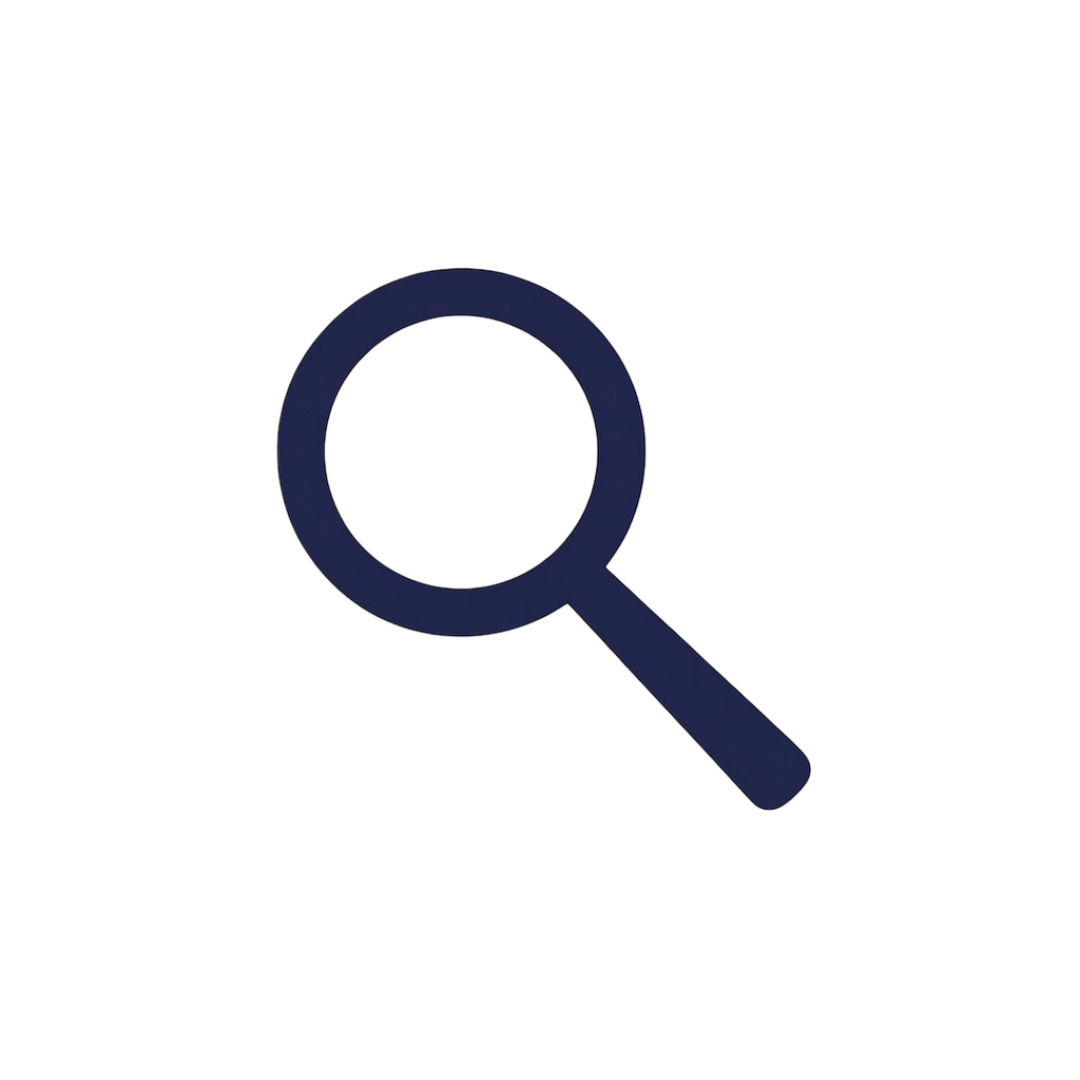
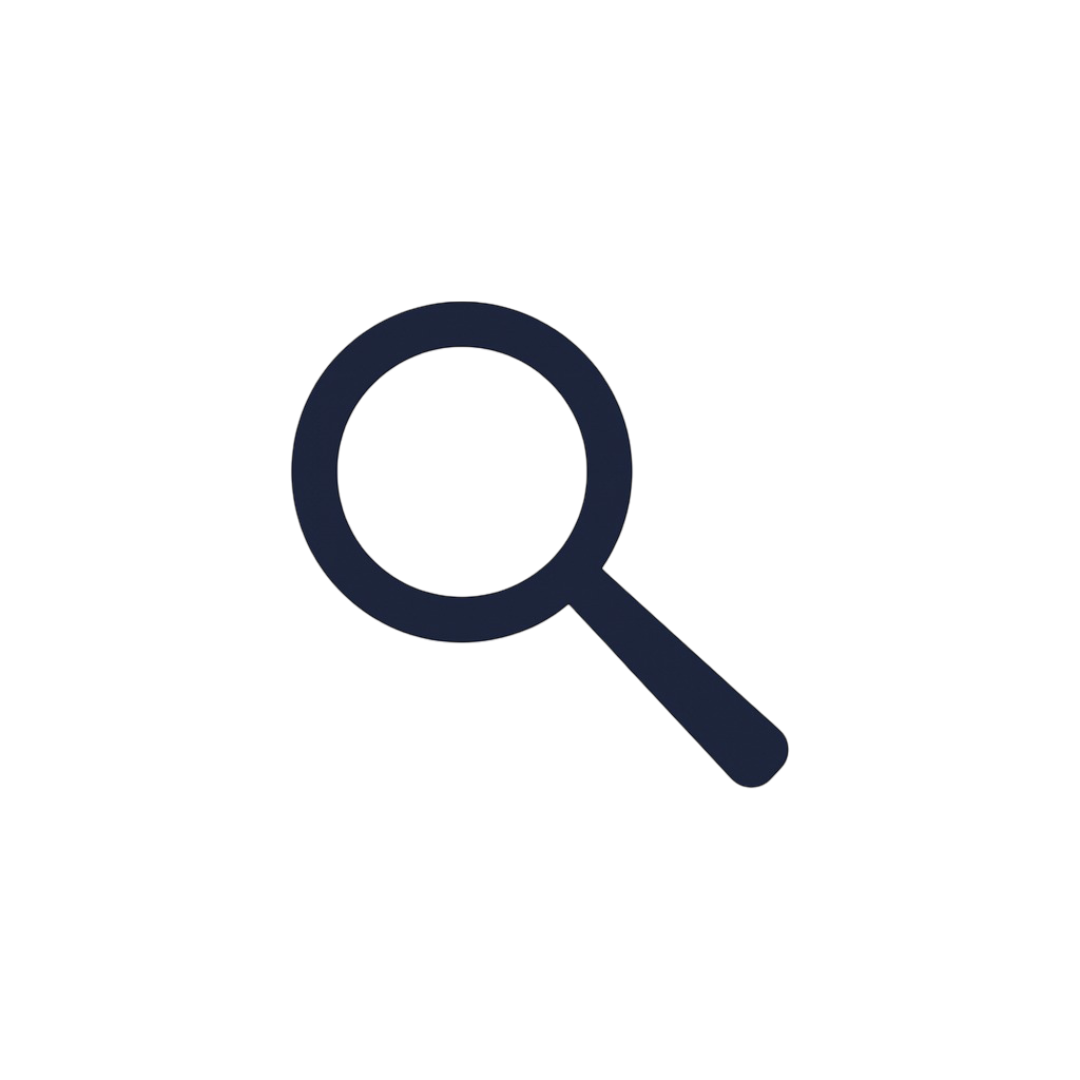
Dossier: Ajout des image Noir pour le lightmode CSS: Rangeslider pour le lightmode

diff --git a/Style/style.css b/Style/style.css
@@ -505,7 +505,47 @@ body.light .header-row nav a:hover {
   background: var(--background-general-dark);
   color: var(--background-surface-light);
 }
+/* RANGESLIDER */
+body.light .range-slider-container {
+  background: var(--background-surface-light);
+}
+body.light .range-slider {
+  background: var(--background-general-dark);
+}
+/* THUMB */
+body.light .range-slider::-webkit-slider-thumb {
+  background: var(--background-general-dark)
+    var(--thumb-img, url("../img/RANGESLIDER/LightMode/EtudesBeige.png")) center
+    center no-repeat;
+  border: 3px solid var(--background-surface-light);
+}
 
+body.light .range-slider:focus::-webkit-slider-thumb {
+  background: var(--background-surface-light)
+    var(--thumb-img, url("../img/RANGESLIDER/LightMode/EtudesNoir.png")) center
+    center no-repeat;
+  border: 3px solid var(--background-general-dark);
+}
+/* Firefox */
+body.light .range-slider::-moz-range-thumb {
+  background: var(--background-general-dark);
+  border: 3px solid var(--background-surface-light);
+}
+
+body.light .range-slider:focus::-moz-range-thumb {
+  background: var(--background-surface-light);
+  border: 3px solid var(--background-general-dark);
+}
+/* Edge/IE */
+body.light .range-slider::-ms-thumb {
+  background: var(--background-general-dark);
+  border: 3px solid var(--background-surface-light);
+}
+
+body.light .range-slider:focus::-ms-thumb {
+  background: var(--background-surface-light);
+  border: 3px solid var(--background-general-dark);
+}
 /* MEDIA QUERIES */
 /* ----------- MOBILE < 430px ----------- */
 @media (max-width: 430px) {
